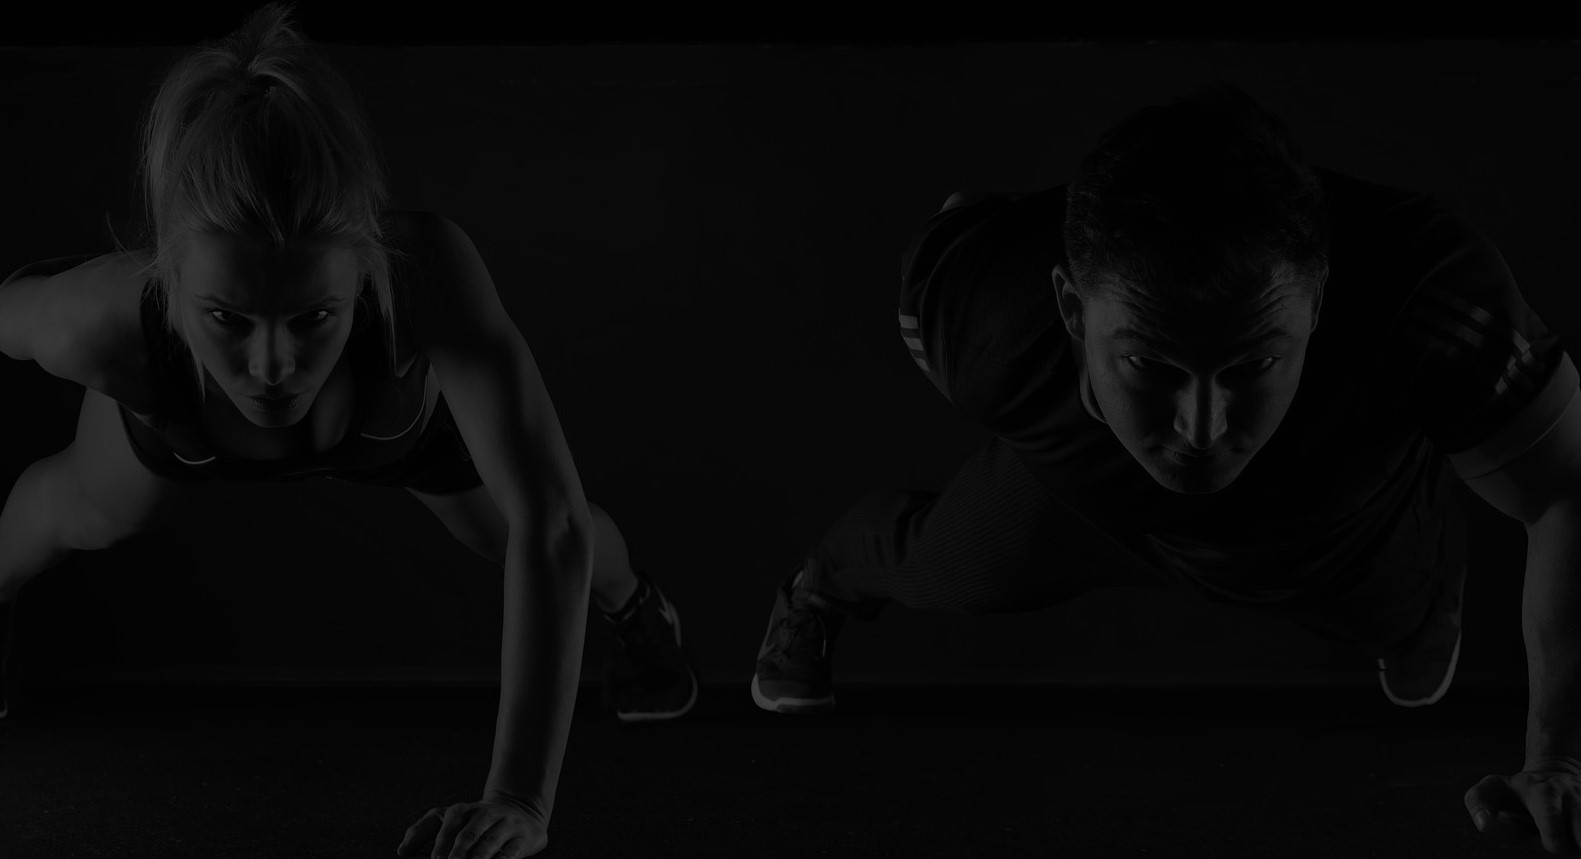
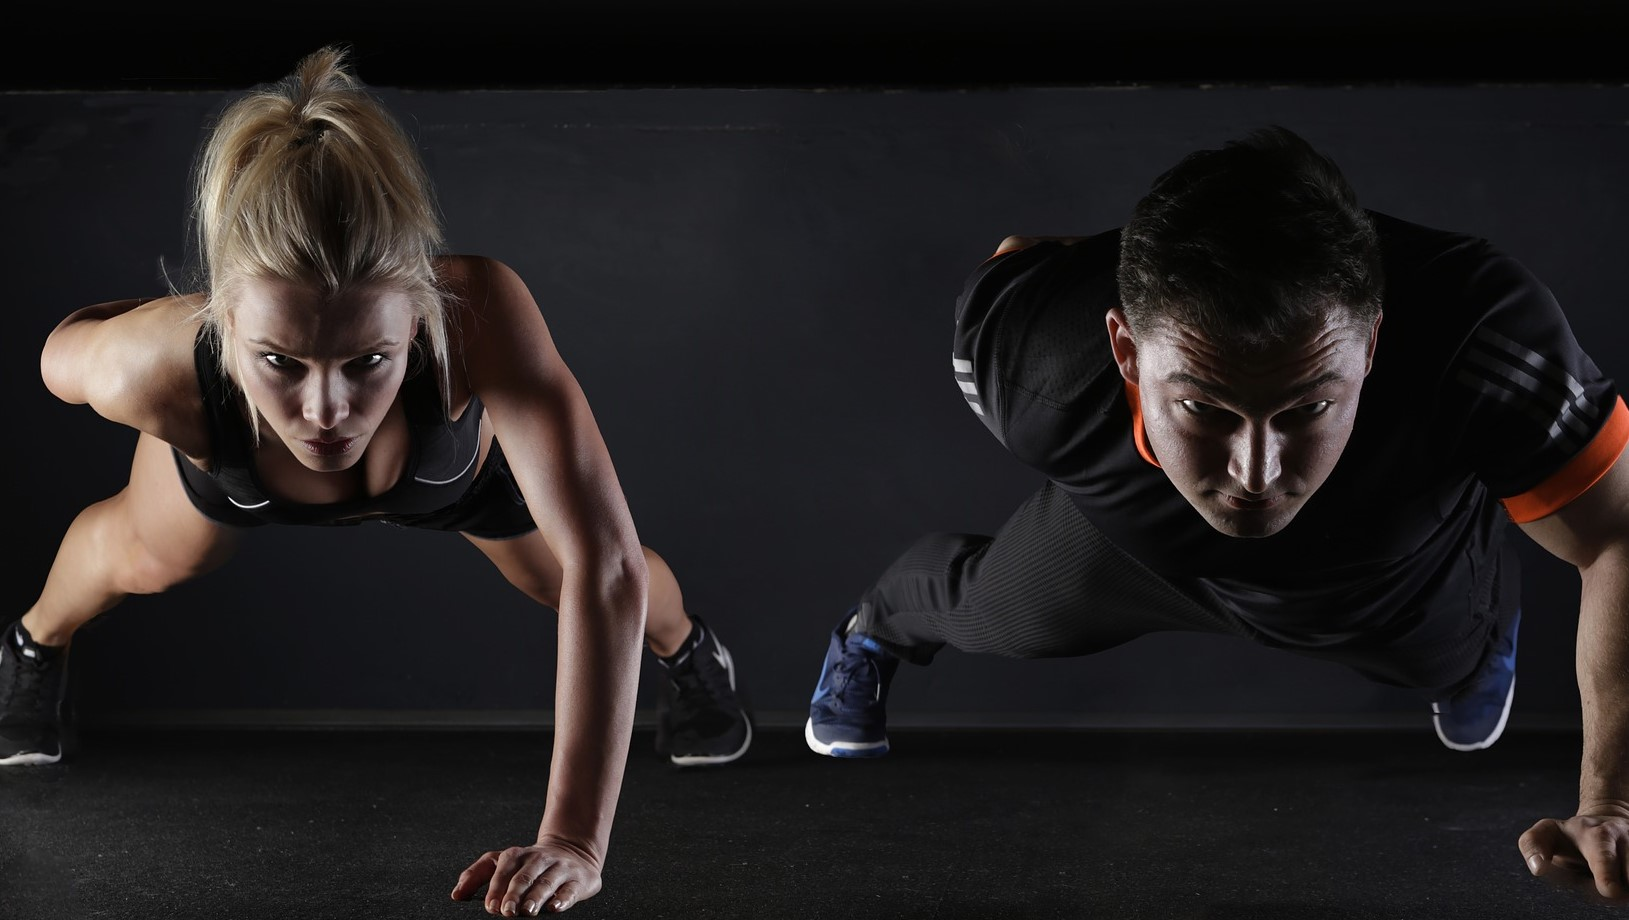
17/05 10h14 modif design

diff --git a/src/app/sessions/sessions.component.css b/src/app/sessions/sessions.component.css
@@ -9,7 +9,7 @@
   width: 15em;
 }
 .background{
-  background: url(../../assets/img/team-1.jpg) fixed;
+  background: url(../../assets/img/fitness-group2.jpg) fixed;
   background-size: cover;
 }
 .fond-blanc
@@ -21,7 +21,8 @@
 } 
 .list-seances{
   color: white;
-  text-shadow: 1px 1px 1px black; 
+  text-shadow: 1px 1px 1px black;
+  font-size: 4rem; 
 }
 .session .text {
   position: relative;

diff --git a/src/app/coaches/coaches.component.css b/src/app/coaches/coaches.component.css
@@ -14,6 +14,7 @@
 {
   color: white;
   text-shadow: 1px 1px 1px black; 
+  font-size: 4rem; 
 }
 .coaches {
   margin: 0 0 2em 0;
@@ -40,7 +41,7 @@
   border-radius: 4px 0 0 4px;
 }
 .background{
-  background: url(../../assets/img/sport-img1-1.jpg) fixed;
+  background: url(../../assets/img/sport-img4.jpg) fixed;
   background-size: cover;
 }
 

diff --git a/src/app/company/company.component.css b/src/app/company/company.component.css
@@ -17,7 +17,8 @@
 }
 .list-entreprise{
   color: white;
-  text-shadow: 1px 1px 1px black; 
+  text-shadow: 1px 1px 1px black;
+  font-size: 4rem;  
 }
 .company .text {
   position: relative;

diff --git a/src/app/add-coach/add-coach.component.css b/src/app/add-coach/add-coach.component.css
@@ -1,6 +1,7 @@
 h2{
     color: white;
     text-shadow: 1px 1px 1px black; 
+    font-size: 4rem; 
 }
 label{
     color: white;

diff --git a/src/app/add-company/add-company.component.css b/src/app/add-company/add-company.component.css
@@ -1,6 +1,7 @@
 h2{
     color: white;
     text-shadow: 1px 1px 1px black; 
+    font-size: 4rem; 
 }
 label{
     color: white;

diff --git a/src/app/add-session/add-session.component.css b/src/app/add-session/add-session.component.css
@@ -1,6 +1,7 @@
 h2{
     color: white;
     text-shadow: 1px 1px 1px black; 
+    font-size: 4rem; 
 }
 label{
     color: white;
